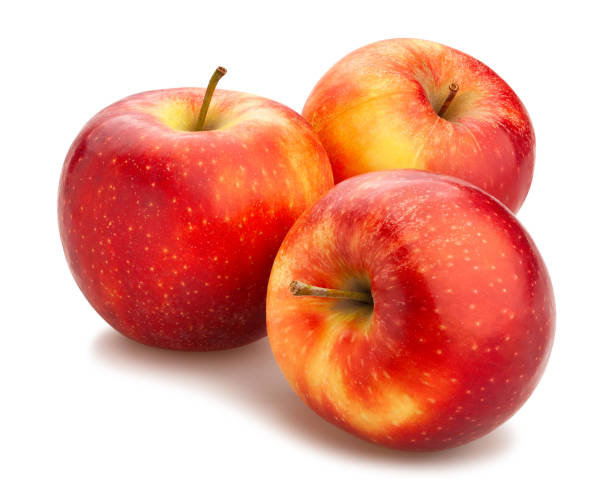
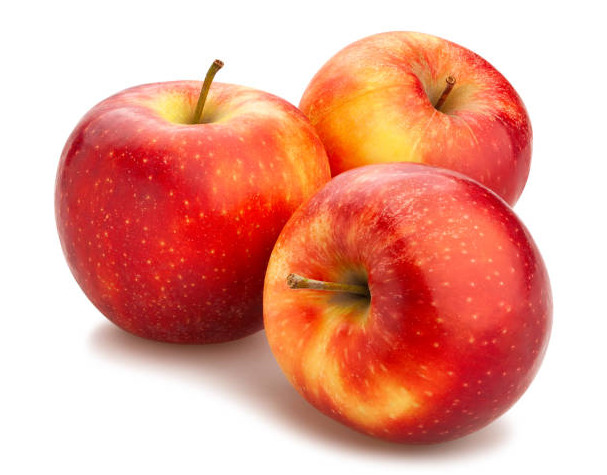
PH

diff --git a/Healthme/templates/recette.html b/Healthme/templates/recette.html
@@ -6,7 +6,7 @@
         <div class="food-box">
             <div class="section-header">
                 <h2>Quelle recette pour quel repas?</h2>
-                <p>Veuillez clicker sur l'image qui correspond à votre recherche de recette.</p>
+                <h6 style="color: darkred; font: bold;">Attention les recettes que nous vous recommandons ne sont pas substituables à une prescription médicale, si les symptômes persistent contactez un professionnel.</h6>
             </div>
             <div class="section-wrapper">
                 <div class="food-content">

diff --git a/Healthme/templates/Page_acceuil.html b/Healthme/templates/Page_acceuil.html
@@ -482,7 +482,7 @@
                 <div class="col-xl-3 col-md-6 col-12">
                     <div class="product-item">
                         <div class="product-thumb">
-                            <img src="../static/images/food/food%20healthme/pomme.avif" style="object-fit: fill;">
+                            <img src="../static/images/food/food%20healthme/photospommes.jpg" style="object-fit: fill;">
                         </div>
                         <div class="product-content">
                             <p>Pomme</p>
